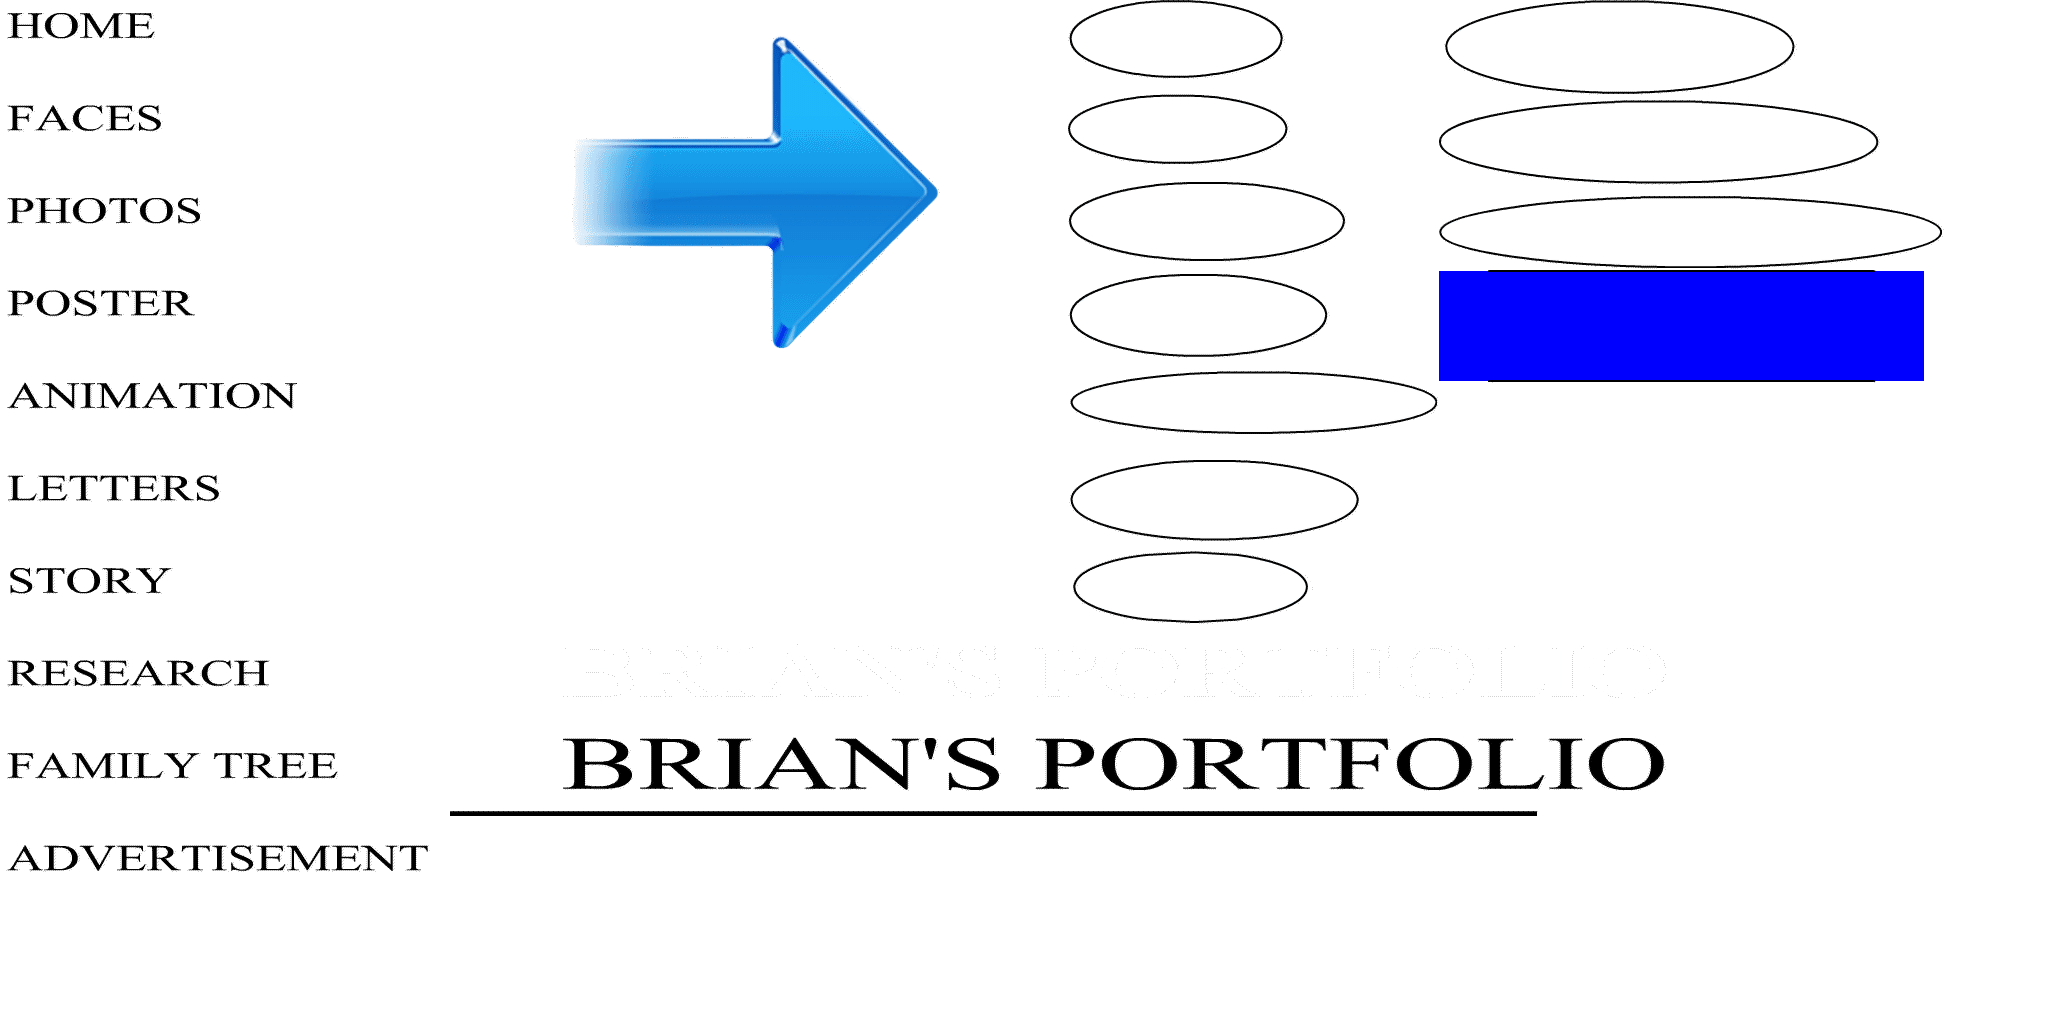
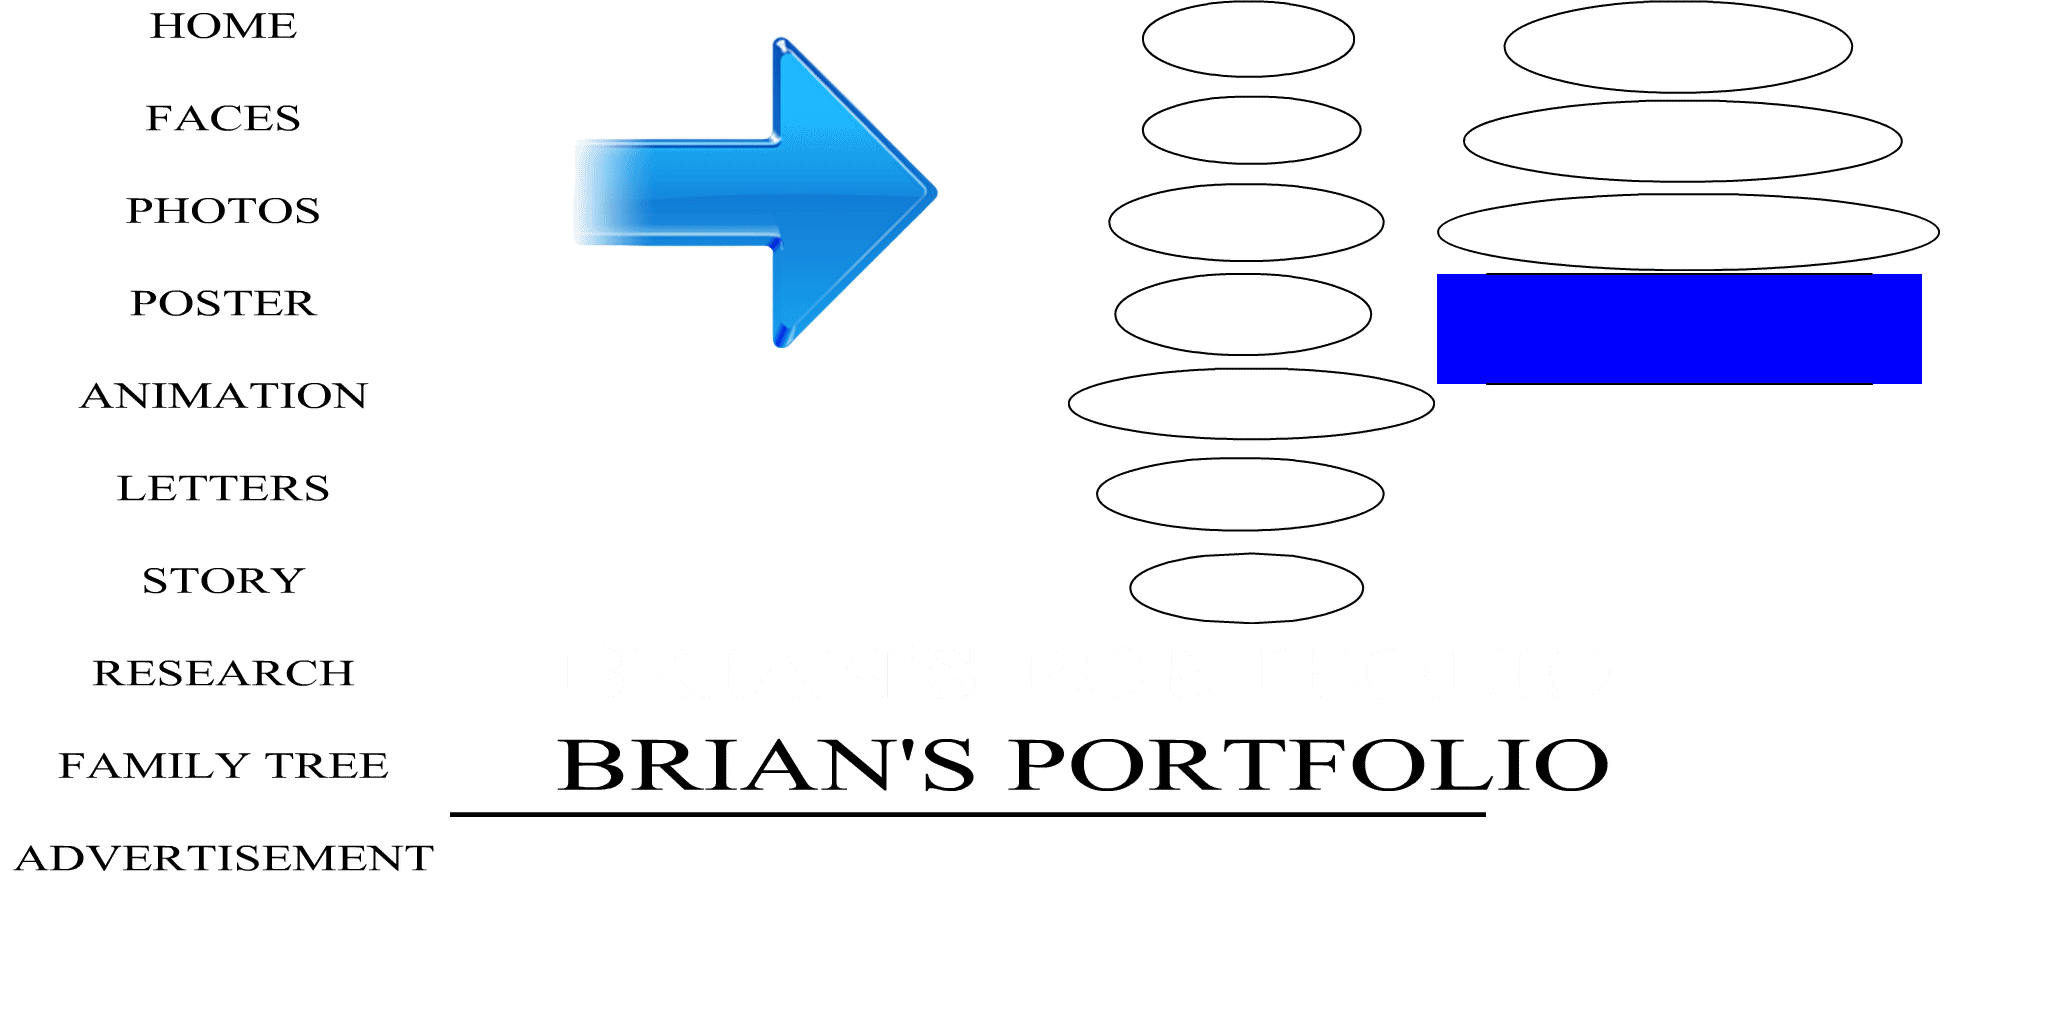
'Commit'

diff --git a/gd_portfolio/Controller.js b/gd_portfolio/Controller.js
@@ -4,7 +4,7 @@ var p; // shortcut to reference prototypes
 var lib={};var ss={};var img={};
 lib.ssMetadata = [
 		{name:"Controller_atlas_", frames: [[0,0,1920,1200]]},
-		{name:"Controller_atlas_2", frames: [[1439,270,485,112],[450,625,1330,91],[450,718,1330,91],[450,811,1087,5],[1068,0,369,623],[0,0,448,884],[1439,0,503,268],[450,0,616,405]]}
+		{name:"Controller_atlas_2", frames: [[1437,273,485,112],[450,626,1268,91],[450,719,1268,91],[450,812,1036,5],[1068,0,367,624],[0,0,448,884],[1437,0,503,271],[450,0,616,405]]}
 ];
 
 
@@ -214,52 +214,52 @@ p.nominalBounds = new cjs.Rectangle(-22,-0.5,264.5,56);
 	// Inv_btns
 	this.btn_ad = new lib.inv_btn();
 	this.btn_ad.name = "btn_ad";
-	this.btn_ad.setTransform(260.95,641.6,0.9907,0.5834,0,0,0,121.4,27.7);
+	this.btn_ad.setTransform(251.3,629.5,0.9907,0.5834,0,0,0,121.4,27.7);
 	new cjs.ButtonHelper(this.btn_ad, 0, 1, 2, false, new lib.inv_btn(), 3);
 
 	this.btn_tree = new lib.inv_btn();
 	this.btn_tree.name = "btn_tree";
-	this.btn_tree.setTransform(260.95,596.7,0.9907,0.5834,0,0,0,121.4,27.7);
+	this.btn_tree.setTransform(264.8,584.75,0.9907,0.5834,0,0,0,121.4,27.7);
 	new cjs.ButtonHelper(this.btn_tree, 0, 1, 2, false, new lib.inv_btn(), 3);
 
 	this.btn_research = new lib.inv_btn();
 	this.btn_research.name = "btn_research";
-	this.btn_research.setTransform(260.95,552.65,0.9907,0.5834,0,0,0,121.4,27.7);
+	this.btn_research.setTransform(283.3,536.7,0.9907,0.5834,0,0,0,121.4,27.7);
 	new cjs.ButtonHelper(this.btn_research, 0, 1, 2, false, new lib.inv_btn(), 3);
 
 	this.btn_story = new lib.inv_btn();
 	this.btn_story.name = "btn_story";
-	this.btn_story.setTransform(260.95,507.7,0.9907,0.5834,0,0,0,121.4,27.7);
+	this.btn_story.setTransform(306.55,491.35,0.9907,0.5834,0,0,0,121.4,27.7);
 	new cjs.ButtonHelper(this.btn_story, 0, 1, 2, false, new lib.inv_btn(), 3);
 
 	this.btn_initials = new lib.inv_btn();
 	this.btn_initials.name = "btn_initials";
-	this.btn_initials.setTransform(260.95,465.45,0.9907,0.5834,0,0,0,121.4,27.7);
+	this.btn_initials.setTransform(296.55,445.5,0.9907,0.5834,0,0,0,121.4,27.7);
 	new cjs.ButtonHelper(this.btn_initials, 0, 1, 2, false, new lib.inv_btn(), 3);
 
 	this.btn_animation = new lib.inv_btn();
 	this.btn_animation.name = "btn_animation";
-	this.btn_animation.setTransform(260.95,420.55,0.9907,0.5834,0,0,0,121.4,27.7);
+	this.btn_animation.setTransform(280.7,399.6,0.9907,0.5834,0,0,0,121.4,27.7);
 	new cjs.ButtonHelper(this.btn_animation, 0, 1, 2, false, new lib.inv_btn(), 3);
 
 	this.btn_poster = new lib.inv_btn();
 	this.btn_poster.name = "btn_poster";
-	this.btn_poster.setTransform(260.95,373.95,0.9907,0.5834,0,0,0,121.4,27.7);
+	this.btn_poster.setTransform(298.8,355,0.9907,0.5834,0,0,0,121.4,27.7);
 	new cjs.ButtonHelper(this.btn_poster, 0, 1, 2, false, new lib.inv_btn(), 3);
 
 	this.btn_photos = new lib.inv_btn();
 	this.btn_photos.name = "btn_photos";
-	this.btn_photos.setTransform(260.95,326.4,0.9907,0.5834,0,0,0,121.4,27.7);
+	this.btn_photos.setTransform(305.55,308.45,0.9907,0.5834,0,0,0,121.4,27.7);
 	new cjs.ButtonHelper(this.btn_photos, 0, 1, 2, false, new lib.inv_btn(), 3);
 
 	this.btn_faces = new lib.inv_btn();
 	this.btn_faces.name = "btn_faces";
-	this.btn_faces.setTransform(260.95,280.65,0.9907,0.5834,0,0,0,121.4,27.7);
+	this.btn_faces.setTransform(312.85,261.7,0.9907,0.5834,0,0,0,121.4,27.7);
 	new cjs.ButtonHelper(this.btn_faces, 0, 1, 2, false, new lib.inv_btn(), 3);
 
 	this.btn_home = new lib.inv_btn();
 	this.btn_home.name = "btn_home";
-	this.btn_home.setTransform(260.95,237.45,0.9907,0.5834,0,0,0,121.4,27.7);
+	this.btn_home.setTransform(317.25,216.9,0.9907,0.5834,0,0,0,121.4,27.7);
 	new cjs.ButtonHelper(this.btn_home, 0, 1, 2, false, new lib.inv_btn(), 3);
 
 	this.timeline.addTween(cjs.Tween.get({}).to({state:[{t:this.btn_home},{t:this.btn_faces},{t:this.btn_photos},{t:this.btn_poster},{t:this.btn_animation},{t:this.btn_initials},{t:this.btn_story},{t:this.btn_research},{t:this.btn_tree},{t:this.btn_ad}]}).wait(1));
@@ -274,31 +274,31 @@ p.nominalBounds = new cjs.Rectangle(-22,-0.5,264.5,56);
 
 	// Text_btns
 	this.instance = new lib.CachedBmp_2();
-	this.instance.setTransform(194.3,219.25,0.5,0.5);
+	this.instance.setTransform(180.65,201.7,0.5,0.5);
 
 	this.instance_1 = new lib.CachedBmp_1();
-	this.instance_1.setTransform(177.8,531.1,0.5,0.5);
+	this.instance_1.setTransform(167.2,513.9,0.5,0.5);
 
 	this.timeline.addTween(cjs.Tween.get({}).to({state:[{t:this.instance_1},{t:this.instance}]}).wait(1));
 
 	// txt_btns_bg
 	this.instance_2 = new lib.CachedBmp_3();
-	this.instance_2.setTransform(179.85,215.75,0.5,0.5);
+	this.instance_2.setTransform(200.5,197.7,0.5,0.5);
 
 	this.timeline.addTween(cjs.Tween.get(this.instance_2).wait(1));
 
 	// Title
 	this.instance_3 = new lib.CachedBmp_5();
-	this.instance_3.setTransform(487.75,79.35,0.5,0.5);
+	this.instance_3.setTransform(503.4,79.35,0.5,0.5);
 
 	this.instance_4 = new lib.CachedBmp_4();
-	this.instance_4.setTransform(545.2,120.25,0.5,0.5);
+	this.instance_4.setTransform(558.2,120.25,0.5,0.5);
 
 	this.timeline.addTween(cjs.Tween.get({}).to({state:[{t:this.instance_4},{t:this.instance_3}]}).wait(1));
 
 	// Title_w_bg
 	this.instance_5 = new lib.CachedBmp_6();
-	this.instance_5.setTransform(490.15,79.35,0.5,0.5);
+	this.instance_5.setTransform(505.7,79.35,0.5,0.5);
 
 	this.timeline.addTween(cjs.Tween.get(this.instance_5).wait(1));
 
@@ -321,11 +321,11 @@ lib.properties = {
 	color: "#FFFFFF",
 	opacity: 1.00,
 	manifest: [
-		{src:"images/Controller_atlas_.png?1588340731229", id:"Controller_atlas_"},
-		{src:"images/Controller_atlas_2.png?1588340731229", id:"Controller_atlas_2"},
-		{src:"https://code.jquery.com/jquery-3.4.1.min.js?1588340731245", id:"lib/jquery-3.4.1.min.js"},
-		{src:"components/sdk/anwidget.js?1588340731245", id:"sdk/anwidget.js"},
-		{src:"components/video/src/video.js?1588340731245", id:"an.Video"}
+		{src:"images/Controller_atlas_.png?1588355338785", id:"Controller_atlas_"},
+		{src:"images/Controller_atlas_2.png?1588355338785", id:"Controller_atlas_2"},
+		{src:"https://code.jquery.com/jquery-3.4.1.min.js?1588355338798", id:"lib/jquery-3.4.1.min.js"},
+		{src:"components/sdk/anwidget.js?1588355338798", id:"sdk/anwidget.js"},
+		{src:"components/video/src/video.js?1588355338798", id:"an.Video"}
 	],
 	preloads: []
 };

diff --git a/gd_portfolio/Controller.html b/gd_portfolio/Controller.html
@@ -14,7 +14,7 @@
 <title>Controller</title>
 <!-- write your code here -->
 <script src="https://code.createjs.com/1.0.0/createjs.min.js"></script>
-<script src="Controller.js?1588340731267"></script>
+<script src="Controller.js?1588355338820"></script>
 <script>
 var canvas, stage, exportRoot, anim_container, dom_overlay_container, fnStartAnimation;
 function init() {
